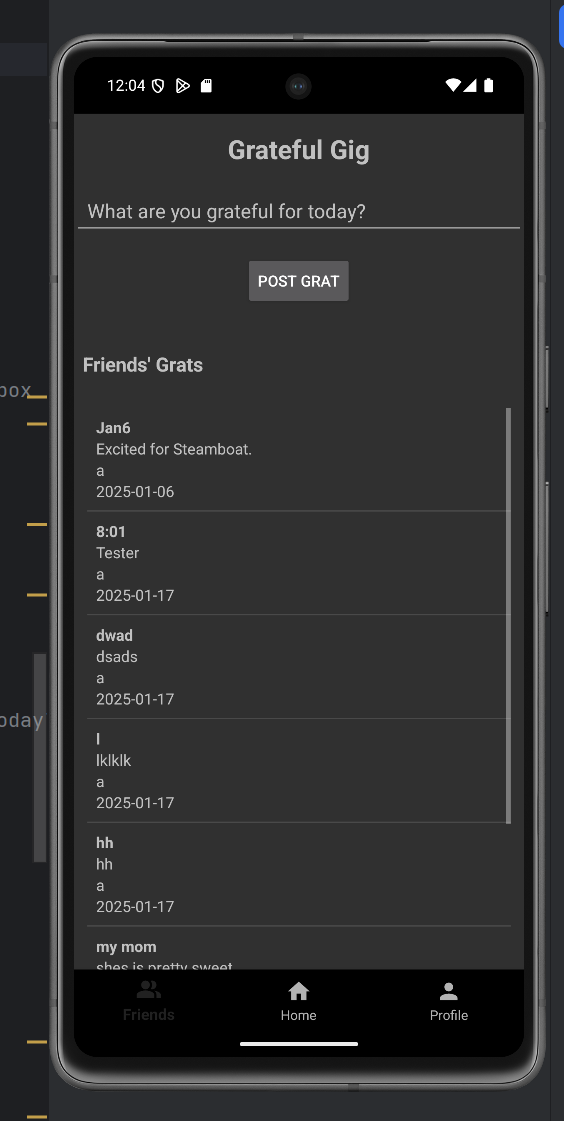
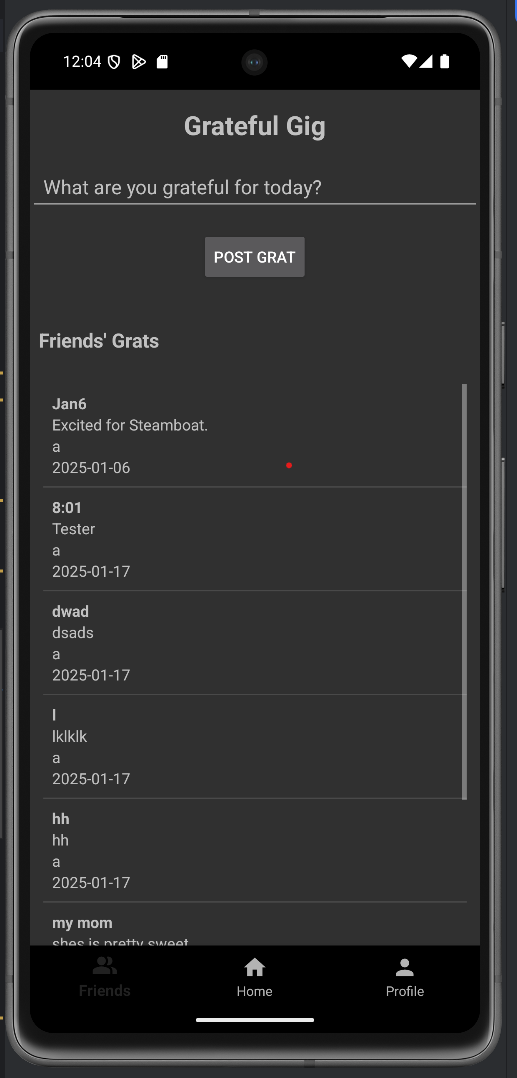
changes

Changed region(s): [[0.0, 0.0, 1.0, 1.0]]

diff --git a/index.html b/index.html
@@ -61,7 +61,18 @@
 										<h2><a href="#">Grateful Gig</a></h2>
 									</header>
 									<a href="#" class="image fit"><img src="images/Screenshot 2025-04-10 120438.png" alt="" /></a>
-									<p>Social media platform where users share daily gratitude posts. Built with Android Studio (Java/XML) front-end and Java back-end. Integrated MySQL database and used Postman for API testing.</p>
+									<p>
+										Designed and developed a social media platform centered around daily gratitude sharing and community engagement.
+										
+										Created an intuitive Android front-end using Java and XML in Android Studio, focusing on user-friendly interactions and aesthetic design.
+										
+										Engineered the back-end in Java using IntelliJ, integrating with a MySQL database for secure and scalable data management.
+										
+										Built and tested RESTful APIs, ensuring reliable client-server communication, using Postman for thorough endpoint validation.
+										
+										Employed Git for version control, maintaining clean commits and collaborative development practices.
+										
+										Prioritized clean, maintainable code through consistent testing and debugging strategies, delivering a smooth user experience./p>
 									<ul class="actions special">
 									</ul>
 								</article>
